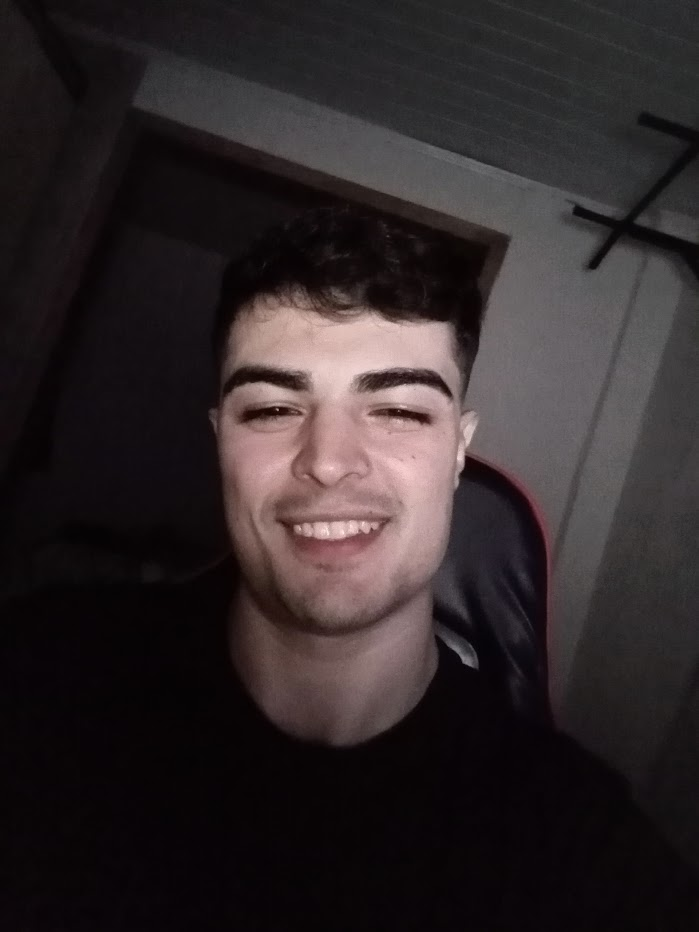
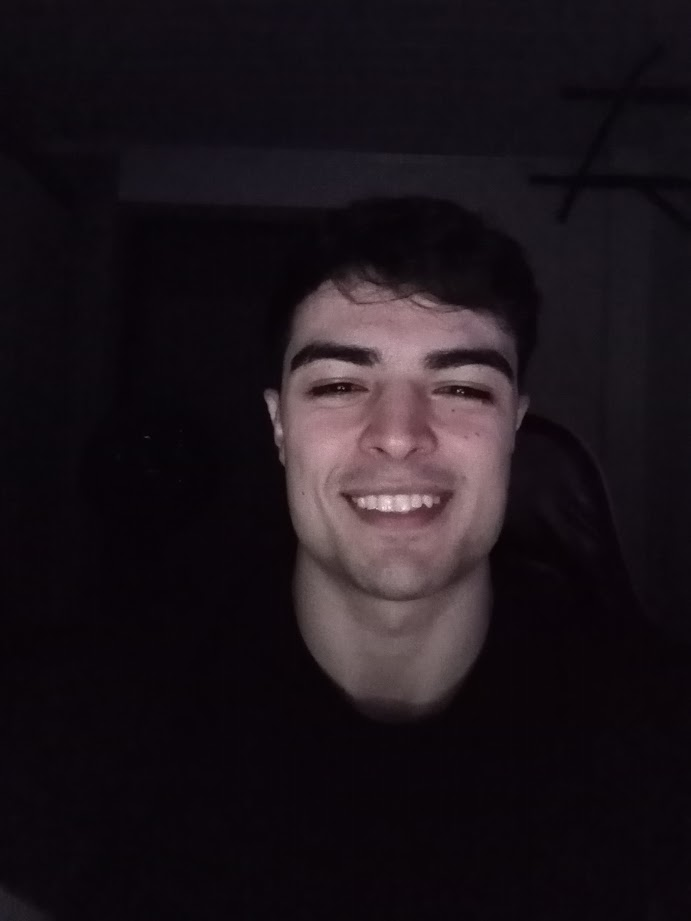
Adicionando curso e foto

diff --git a/index.html b/index.html
@@ -116,6 +116,11 @@
                             <p class="card_p">Concluído</p>
                             <a href="https://hermes.dio.me/certificates/YAEZAMBZ.pdf" target="_blank">Certificado</a>
                         </div>
+                        <div class="card">
+                            <h3>Formação Lógica de Programação</h3>
+                            <p class="card_p">Concluído</p>
+                            <a href="https://hermes.dio.me/certificates/3EGR2OVQ.pdf" target="_blank">Certificado</a>
+                        </div>
                     </div>
                 </div>
             </div>
